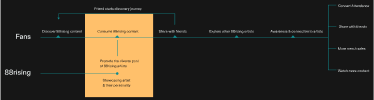
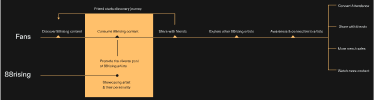
Minor adujstments to 88rising asset for accessibility and link

diff --git a/index.html b/index.html
@@ -55,17 +55,17 @@
                     <!-- right side -->
                     <div class="project-img project-item static-img">
                         <figure>
-                            <img alt="88rising Banner image" class="lazy js-off" src="img\88rising\Thumbnail_100.png"
-                            data-src="img\88rising\Thumbnail_400.png"
-                            data-srcset="img\88rising\Thumbnail_400.png 400w,
-                                         img\88rising\Thumbnail_600.png 600w,
-                                         img\88rising\Thumbnail_1080.png 1080w"
+                            <img alt="88rising Banner image" class="lazy js-off" src="img\88rising\88risingMockUp_100.jpg"
+                            data-src="img\88rising\88risingMockUp_400.jpg"
+                            data-srcset="img\88rising\88risingMockUp_400.jpg 400w,
+                                         img\88rising\88risingMockUp_800.jpg 600w,
+                                         img\88rising\88risingMockUp_1080.jpg 1080w"
                             data-sizes="100w">
                             <noscript>
-                                <img src="img\88rising\Thumbnail_400.png" alt="88rising Banner image"
-                                srcset="img\88rising\Thumbnail_400.png 400w,
-                                        img\88rising\Thumbnail_600.png 600w,
-                                        img\88rising\Thumbnail_1080.png 1080w" 
+                                <img src="img\88rising\88risingMockUp_400.jpg" alt="88rising Banner image"
+                                srcset="img\88rising\88risingMockUp_400.jpg 400w,
+                                        img\88rising\88risingMockUp_800.jpg 600w,
+                                        img\88rising\88risingMockUp_1080.jpg 1080w" 
                                 sizes="(min-width: 74rem) 50vw, 100vw"
                                 >
                             </noscript>
@@ -158,8 +158,8 @@
                             <img alt="Splitiwse Banner image" class="lazy js-off" src="img/Splitwise/Splitwise_banner_100.png"
                             data-src="img/Splitwise/Splitwise_banner_400.png"
                             data-srcset="img/Splitwise/Splitwise_banner_400.png 400w,
-                                         img/Splitwise/Splitwise_banner_800.png   800w,
-                                         img/Splitwise/Splitwise_banner_1080.png  1080w"
+                                         img/Splitwise/Splitwise_banner_800.png 800w,
+                                         img/Splitwise/Splitwise_banner_1080.png 1080w"
                             data-sizes="100w">
                             <noscript>
                                 <img src="img/Splitwise/Splitwise_banner_400.png" alt="Splitiwse Banner image"

diff --git a/summerfest.html b/summerfest.html
@@ -356,17 +356,17 @@
                     </div>
                     <div class="project-img project-item">
                         <figure>
-                            <img alt="88rising Banner image" class="lazy js-off" src="img\88rising\Thumbnail_100.png"
-                            data-src="img\88rising\Thumbnail_400.png"
-                            data-srcset="img\88rising\Thumbnail_400.png 400w,
-                                         img\88rising\Thumbnail_600.png 600w,
-                                         img\88rising\Thumbnail_1080.png 1080w"
+                            <img alt="88rising Banner image" class="lazy js-off" src="img\88rising\88risingMockUp_100.jpg"
+                            data-src="img\88rising\88risingMockUp_400.jpg"
+                            data-srcset="img\88rising\88risingMockUp_400.jpg 400w,
+                                         img\88rising\88risingMockUp_800.jpg 600w,
+                                         img\88rising\88risingMockUp_1080.jpg 1080w"
                             data-sizes="100w">
                             <noscript>
-                                <img src="img\88rising\Thumbnail_400.png" alt="88rising Banner image"
-                                srcset="img\88rising\Thumbnail_400.png 400w,
-                                        img\88rising\Thumbnail_600.png 600w,
-                                        img\88rising\Thumbnail_1080.png 1080w" 
+                                <img src="img\88rising\88risingMockUp_400.jpg" alt="88rising Banner image"
+                                srcset="img\88rising\88risingMockUp_400.jpg 400w,
+                                        img\88rising\88risingMockUp_800.jpg 600w,
+                                        img\88rising\88risingMockUp_1080.jpg 1080w" 
                                 sizes="(min-width: 74rem) 50vw, 100vw"
                                 >
                             </noscript>

diff --git a/88rising.html b/88rising.html
@@ -17,7 +17,6 @@
 
     <body>
         <header>
-            <!-- <div class="header"> -->
                 <nav class="grid nav-grid-master" id="navBar">
                     <a href="index.html" class="nav-item logo-text">
                         Luke Do
@@ -170,7 +169,7 @@
                             sizes="(min-width: 74rem) 50vw, 100vw"
                             >
                         </noscript>
-                        <figcaption class="caption-analysis">Insights gathered through interviews </figcaption>
+                        <figcaption class="caption-analysis">User Journey Map generated through through design sprints and user insights </figcaption>
                     </figure> 
                 </div>
 
@@ -301,7 +300,7 @@
                         <p class="project-type">UI/UX Design - UX Research - Prototyping</p>
                         <h3>FurEverHome</h3>
                         <p class="project-description">A Senior UI/UX Project in developing a fictional application dedicated to support new and current rescued dog owners</p>
-                        <a href="summerfest.html" class="label-button">View Project</a>
+                        <a href="Fureverhome.html" class="label-button">View Project</a>
                     </div>
                     <div class="project-img project-item">
                         <figure>

diff --git a/Fureverhome.html b/Fureverhome.html
@@ -25,7 +25,7 @@
                 <div class="nav-grid-text grid nav-button add-gutters">
                     <a href="index.html#Featured_Project" class="nav-item">Projects</a>
                     <a href="about.html" class="nav-item">About</a>
-                    <a href="https://drive.google.com/file/d/17LMb8DhY5Witah1SeAFqrNYRx8uPrs1-/view?usp=sharing" class="nav-item">Resume</a>
+                    <a href="https://drive.google.com/file/d/17LMb8DhY5Witah1SeAFqrNYRx8uPrs1-/view?usp=sharing" class="nav-item" target="_blank">Resume</a>
                 </div>
 
             </nav>

diff --git a/icebreaker.html b/icebreaker.html
@@ -25,7 +25,7 @@
                 <div class="nav-grid-text grid nav-button add-gutters">
                     <a href="index.html#Featured_Project" class="nav-item">Projects</a>
                     <a href="about.html" class="nav-item">About</a>
-                    <a href="https://drive.google.com/file/d/17LMb8DhY5Witah1SeAFqrNYRx8uPrs1-/view?usp=sharing" class="nav-item">Resume</a>
+                    <a href="https://drive.google.com/file/d/17LMb8DhY5Witah1SeAFqrNYRx8uPrs1-/view?usp=sharing" class="nav-item" target="_blank">Resume</a>
                 </div>
 
             </nav>

diff --git a/css/main_work.css b/css/main_work.css
@@ -581,13 +581,12 @@ footer{
 }
 
 .project-roles{
-    max-width: 30rem;
-    text-align: center;
+    max-width: 33rem;
     font-size: .9rem;
 }
 
 .role-details{
-    margin:.5rem;
+    margin: 0.5rem 0.5rem .5rem 0rem;
 }
 
 .project-roles ul{
@@ -667,7 +666,7 @@ footer{
 .project-roles{
     align-items: normal;
     grid-template-columns: 1fr 1fr 1fr;
-    grid-column-gap: 2rem;
+    grid-column-gap: 1rem;
 }
 
 nav{
@@ -1041,7 +1040,7 @@ span{
     }
 
     .project-description{
-        max-width: 30rem;
+        max-width: 28rem;
     }       
 
     .main-banner{
